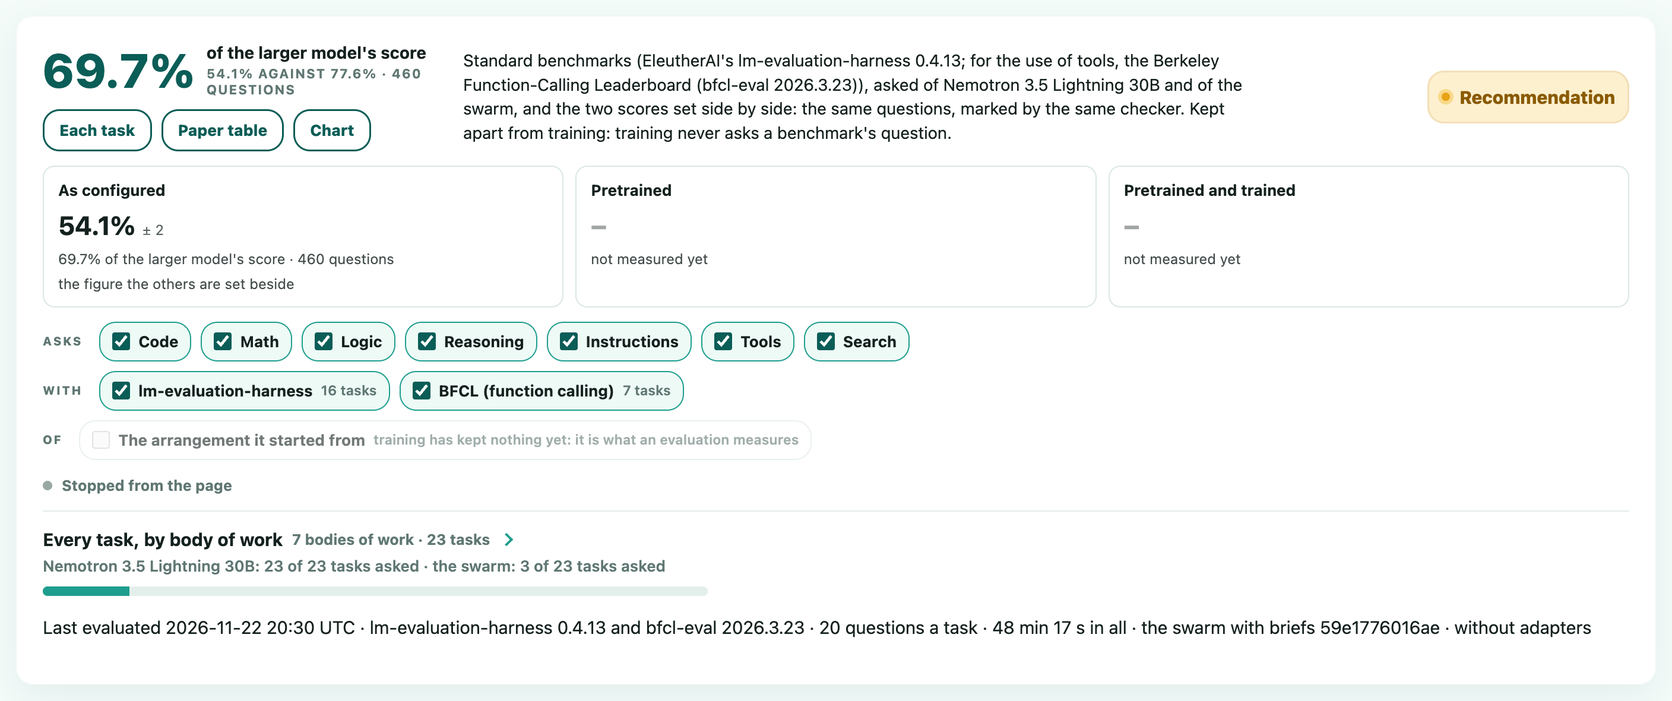
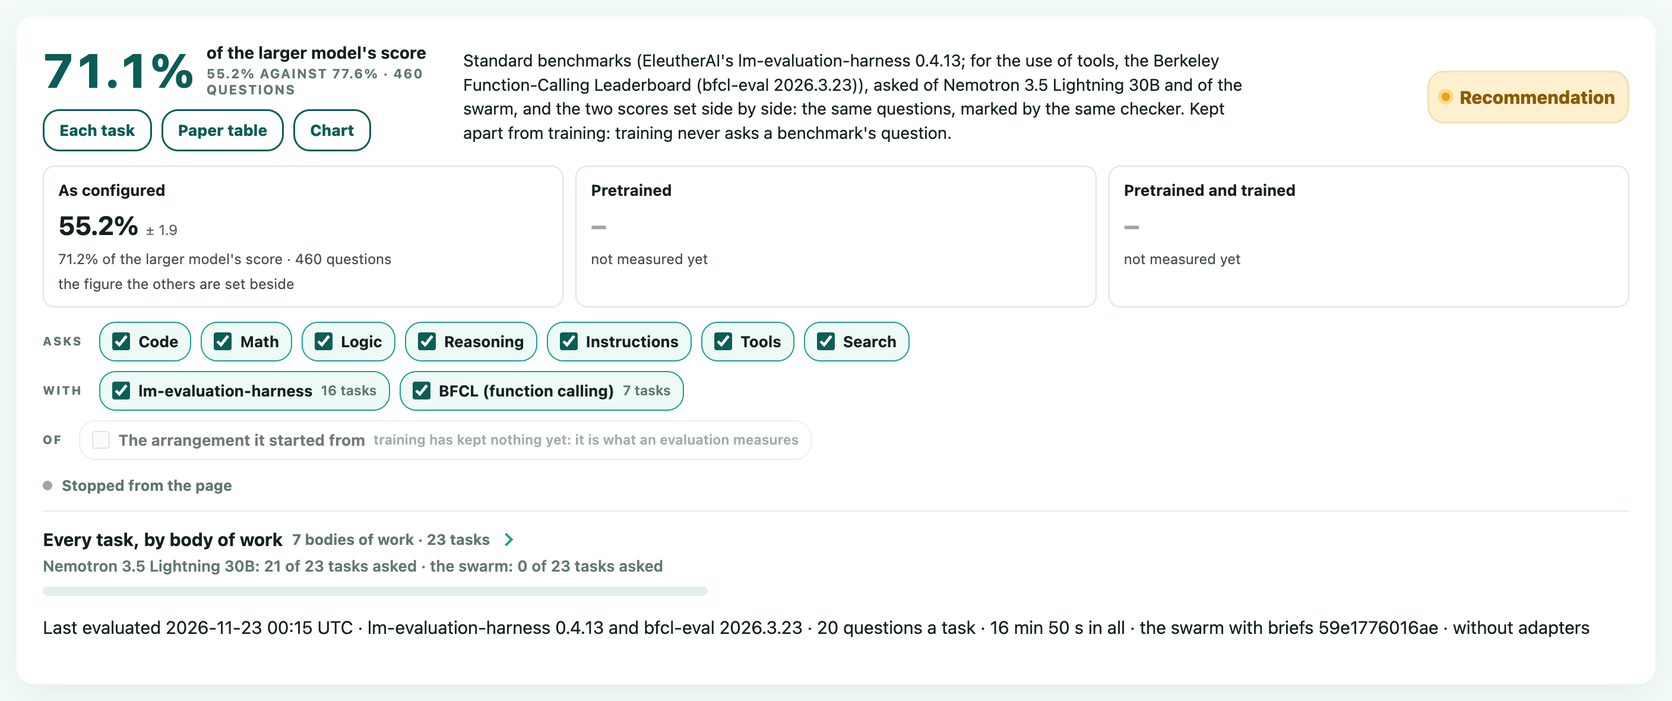
The System picture shows the whole; the one-slot figure is measured
ui/swarm_ui.py: Visualizing the System drew the search for an
arrangement and nothing else. Round those lanes it now draws the run in
order with where each step stands (R), a request inside the module with
what is code and what is models (M), the three things training keeps and
how far each can reach (K: arrangement, adapters by role, instruments,
saying which are on), and the judge apart from training (J).

Measured, 320 questions (16 tasks that are not tools or search, 20 a
task), LFM2.5 1.2B: asked plainly 15.6%; its reply laid out 19.1%; a
module of one slot 41.9%; the module of seven slots 51.2%; Nemotron
82.5%. The module's code round one call is worth about 26 points, the
arrangement about 9 more. The README's results are of the evening's
evaluation (55.2% of 460), and three pictures are retaken.

diff --git a/ui/swarm_ui.py b/ui/swarm_ui.py
@@ -186,7 +186,7 @@ table.spec th{font-size:11px;font-weight:800;letter-spacing:.1em;text-transform:
 .plannow{margin-top:10px}.plannow table.kv th{width:150px}.qsteps{margin:0;padding:0;list-style:none;counter-reset:qs;display:grid;gap:4px}
 .qsteps li{counter-increment:qs;display:flex;gap:8px;align-items:baseline;padding:6px 10px;border-radius:var(--r);background:var(--soft);font-size:13px;color:var(--fog)}
 .qsteps li::before{content:counter(qs);font-weight:800;color:var(--mist);min-width:14px}.qsteps li.on{background:#fdf0cf;box-shadow:inset 0 0 0 2px var(--sun)}.qsteps li.on::before{color:#8a5a00}
-.viz .vintro{margin:0 0 12px;font-size:12.5px;color:var(--mist);line-height:1.5}.viz .vfoot{margin:6px 0 0;font-size:12px;color:var(--mist);line-height:1.45}.viz .vlane{margin:0 0 16px}.viz .vlane:last-child{margin-bottom:0}.viz .vhead{display:flex;flex-wrap:wrap;gap:4px 10px;align-items:baseline;margin:0 0 6px}.viz .vkey{display:inline-grid;place-items:center;width:22px;height:22px;border-radius:50%;background:var(--teal);color:#fff;font-weight:800;font-size:12px}
+.viz .vintro{margin:0 0 12px;font-size:12.5px;color:var(--mist);line-height:1.5}.viz .vfoot{margin:6px 0 0;font-size:12px;color:var(--mist);line-height:1.45}.viz .vsub{margin:18px 0 10px;padding-top:12px;border-top:1px solid var(--line2);font-size:13px;color:var(--fog)}.viz .vlane{margin:0 0 16px}.viz .vlane:last-child{margin-bottom:0}.viz .vhead{display:flex;flex-wrap:wrap;gap:4px 10px;align-items:baseline;margin:0 0 6px}.viz .vkey{display:inline-grid;place-items:center;width:22px;height:22px;border-radius:50%;background:var(--teal);color:#fff;font-weight:800;font-size:12px}
 .viz .vhead small{color:var(--mist);font-size:12px}.viz .vrow{display:flex;align-items:stretch;gap:0}.viz .vbox{flex:1 1 0;min-width:0;padding:8px 10px;border-radius:var(--r);background:var(--soft);border:1px solid var(--line2)}
 .viz .vbox b{display:block;font-size:13px;line-height:1.3;color:var(--fog)}.viz .vbox small{display:block;margin-top:3px;font-size:11.5px;line-height:1.4;color:var(--mist)}
 .viz .vcode{display:inline-block;margin-right:6px;padding:0 5px;border-radius:var(--r);background:var(--panel);color:var(--teal);font-size:11px;font-weight:800}
@@ -1350,8 +1350,46 @@ def viz_block(d):
     arrow = '<span class="varr" aria-hidden="true"></span>'
     lane = lambda key, title, boxes, foot="": ('<div class="vlane"><div class="vhead"><span class="vkey">%s</span><b>%s</b></div><div class="vrow">%s</div>%s</div>'  # noqa: E731
                                                % (key, e(title), arrow.join(boxes), ('<p class="vfoot">%s</p>' % foot) if foot else ""))
-    return ('<div class="panel viz"><p class="vintro">Every part of training, coded so it can be named (B3, D2). Lanes run top to bottom; '
-            "steps run in the order of the arrows. The marked box is where the loop is now.</p>%s%s%s%s%s%s</div>" % (
+    # THE WHOLE OF IT, round the lanes of the arrangement's training (2026-11-22). The picture drew the search for an arrangement
+    # and nothing else, while most of what was measured came from what it left out: the code a request meets, the instruments,
+    # pretraining by role, and the evaluation that judges all of it. So: R the run in order, M a request inside the module, K the
+    # three things training keeps and how far each can reach; then the lanes there were (R4 in detail); then J, the judge.
+    steps_, _ = whole_steps(ARGS.root, d.get("key") or "")
+    going = bool((job_state("whole") or {}).get("running"))
+    said_ = {"done": "Done", "running": "Running now" if going else "Stopped here", "failed": "Failed", "not taken": "Not taken", "waiting": ""}
+    r_words = ["A third party&#39;s harness asks the module as it starts: no adapter, no instrument on.",
+               "An adapter for each role (draft, check, write), from the slots&#39; own right answers: K2.",
+               "The same questions again.",
+               "Each class of input as a class: lanes S to E below. Instruments are turned on here: K1, K3.",
+               "The same questions a third time: three figures side by side, J2."]
+    rbox = lambda i, x: ('<div class="vbox%s"><b><span class="vcode">R%d</span>%s</b><small>%s%s</small></div>'  # noqa: E731
+                         % (" on" if going and x["state"] == "running" else "", i + 1, e(x["name"]),
+                            ("<b>%s.</b> " % said_[x["state"]]) if said_.get(x["state"]) else "", r_words[i] if i < len(r_words) else ""))
+    on_ = lambda pl: list(data.__dict__.get("INSTRUMENT_IDS") or ["sum", "truth", "sorted", "closed"]) if (pl or {}).get("instruments") is True else list((pl or {}).get("instruments") or [])  # noqa: E731
+    br_ = d.get("briefs") or {}
+    inst_ = ([("every class", on_(br_.get("plan")))] if on_(br_.get("plan")) else []) + [(c, on_((k or {}).get("plan"))) for c, k in (br_.get("kinds") or {}).items() if on_((k or {}).get("plan"))]
+    inst_words = ("On now: %s." % "; ".join("%s (%s)" % (", ".join(v), c) for c, v in inst_)) if inst_ else "None is on yet."
+    head_ = ('<p class="vintro">How a module is made and judged, every part coded so it can be named (K3, B3). Lanes run top to bottom; steps run in the '
+             "order of the arrows. The marked box is where the run, or the loop, is now.</p>"
+             + lane("R", "The run, in order", [rbox(i, x) for i, x in enumerate(steps_)])
+             + lane("M", "A request, inside the module", [
+                 box("M1", "", "Read · code", "Its class, from the request alone: with tools, a conversation, asking for code, a plain question."),
+                 box("M2", "", "Instrument · code", "Where the question is an operation code does exactly and training turned it on for the class: done by code, no model asked."),
+                 box("M3", "", "Arrangement · models", "Otherwise the class's slots and flow: lane C."),
+                 box("M4", "", "Form · code", "The reply laid out and closed as the conversation shows; code goes out as it was settled.")],
+                 "To the program that uses it this is one chat model. M1 to M4 are its wiring, and the wiring is what training finds.")
+             + lane("K", "What training keeps, and how far each can reach", [
+                 box("K1", "", "Arrangement", "What each slot is told and how the slots are arranged, class by class. It reaches the best answer any slot drafted, and cannot make one no slot had."),
+                 box("K2", "", "Adapters, by role", "What a slot drafts, checks or writes. They reach what the small model can learn."),
+                 box("K3", "", "Instruments", "Operations done exactly. They can pass %s, but only where a question is that operation. %s" % (tname, inst_words))],
+                 "Each is kept only where held questions gained, by the one rule at S5. As a module starts, nothing is kept and no instrument is on.")
+             + '<p class="vintro vsub"><b>R4 in detail:</b> training the arrangement.</p>')
+    tail_ = lane("J", "The judge, apart from training", [
+        box("J1", "", "The harness", "A third party's benchmarks, unchanged, ask through the chat interface as they ask any model. Training never asks one of their questions."),
+        box("J2", "", "Three figures", "As configured, pretrained, pretrained and trained, on the same questions: R1, R3, R5."),
+        box("J3", "", "Beside them", "The small model asked plainly, the same with the module's layout only, and %s." % tname),
+        box("J4", "", "The verdict", "By capability: parity, short, or too few questions to say. A hundred questions a task, at least, is proof.")])
+    return ('<div class="panel viz">__VIZ_HEAD__%s%s%s%s%s%s__VIZ_TAIL__</div>' % (
                 lane("A", "Once a pass", [
                     box("A1", "", "Questions", "Of every body of work. Train questions are trained on; held questions are only checked."),
                     box("A2", "", "The standard", "The question's own where it has one; else the answers %s agrees with itself on." % tname),
@@ -1387,7 +1425,7 @@ def viz_block(d):
                 lane("E", "At the end of a pass", [
                     *([box("E1", "", "Proposed for the class", "Up to %s changes a class, those that most often brought its questions closer, scored on the class." % lpol_.get("classTries", 0))] if by_class and lpol_.get("classTries") else []),
                     box("E2" if by_class and lpol_.get("classTries") else "E1", "", "Held questions", "Does what was learned hold beyond the train questions?"),
-                    box("E3" if by_class and lpol_.get("classTries") else "E2", "", "The spec", "Every kept change, cumulative; published with its proof.")])))
+                    box("E3" if by_class and lpol_.get("classTries") else "E2", "", "The spec", "Every kept change, cumulative; published with its proof.")]))).replace("__VIZ_HEAD__", head_).replace("__VIZ_TAIL__", tail_)
 
 
 def plan_block(d):

diff --git a/ui/check.py b/ui/check.py
@@ -2248,6 +2248,14 @@ _wb = swarm_ui.whole_block(_dr)
 _ps = ("  501 /bin/bash -c source x.sh && bash training/run.sh --limit 20 --train classes\n"
        " 4242 bash training/run.sh --limit 50 --items code,math --train off\n"
        " 4300 sh training/evaluate.sh --variant base\n")
+# THE SYSTEM PICTURE DRAWS THE WHOLE: the run, a request inside the module, what training keeps, and the judge, round the lanes
+# of the arrangement's training
+_vzw = swarm_ui.viz_block(data.load(swarm_ui.ARGS.root))
+check("the System picture draws the run in order (R1 to R5), a request inside the module (M1 to M4), what training keeps with how far each reaches (K1 to K3, instruments saying which are on), the arrangement's lanes after them, and the judge last (J1 to J4)",
+      all(">%s</span>" % c in _vzw for c in ("R1", "R5", "M1", "M2", "M4", "K1", "K2", "K3", "A1", "S5", "E1", "J1", "J4"))
+      and _vzw.index(">R1</span>") < _vzw.index(">M1</span>") < _vzw.index(">K1</span>") < _vzw.index(">A1</span>") < _vzw.index(">J1</span>")
+      and "None is on yet." in _vzw and "__VIZ_" not in _vzw and "R4 in detail" in _vzw,
+      [c for c in ("R1", "M1", "K3", "J4") if ">%s</span>" % c not in _vzw])
 # THE SECOND BASELINE ON THE PAGE: beside a small model by itself, the same model with its reply laid out, as one more column
 _lo = [{"alone": {"a": {"name": "A", "value": 0.0}}, "aloneForm": {"a": {"name": "A", "value": 0.5, "unread": 1}}, "agree": {"of": 10}},
        {"harness": "bfcl", "alone": {"a": {"name": "A", "value": 1.0}}, "agree": {"of": 10}}]

diff --git a/docs/dashboard.md b/docs/dashboard.md
@@ -12,7 +12,7 @@ it is served. Every section folds, smoothly, and says in a line what it holds wh
 is kept on the device.
 
 <p align="center">
-  <img src="images/dashboard-evaluate.png" alt="Evaluate the swarm: 69.7% of the larger model&#39;s score (54.1% against 77.6% on 460 questions), with Each task, Paper table and Chart; the three evaluations side by side (as configured 54.1%, pretrained and pretrained and trained not measured yet); Asks, a ticked box for each body of work; With, a box for each harness (lm-evaluation-harness, 16 tasks; BFCL, 7 tasks); Of, the arrangement it started from; a run stopped from the page; and Every task, by body of work, folded to one line" width="860">
+  <img src="images/dashboard-evaluate.png" alt="Evaluate the swarm: 71.1% of the larger model&#39;s score (55.2% against 77.6% on 460 questions), with Each task, Paper table and Chart; the three evaluations side by side (as configured 55.2%, pretrained and pretrained and trained not measured yet); Asks, a ticked box for each body of work; With, a box for each harness (lm-evaluation-harness, 16 tasks; BFCL, 7 tasks); Of, the arrangement it started from; a run stopped from the page; and Every task, by body of work, folded to one line" width="860">
 </p>
 
 <p align="center"><em>Evaluate the swarm: the module&#39;s score as a share of the larger model&#39;s on the same questions, and the three evaluations Run sets side by side: as configured, pretrained, and pretrained and trained. The three buttons open the same results as a line for every task, as a paper sets them out, and drawn.</em></p>
@@ -30,10 +30,10 @@ is kept on the device.
 <p align="center"><em>The plan being carried out, before a pass has written one. While a pass runs it holds what the loop has done and, folded, how it is training, its policy, the arrangements it found, steering and the moves.</em></p>
 
 <p align="center">
-  <img src="images/dashboard-system.png" alt="Visualizing the System: every part of training as a coded box, in lanes: A once a pass (questions, the standard, the plan); S first in a pass, each class of input as a class (as it stands, the sweep, held questions, keep); B each question until its answer is good; C inside one try (draft, try, check and revise, decide, write, grade); D how the search improves; E at the end of a pass" width="860">
+  <img src="images/dashboard-system.png" alt="Visualizing the System: how a module is made and judged, as coded boxes in lanes: R the run in order (evaluate as configured, pretrain, evaluate pretrained, train the arrangement, evaluate pretrained and trained), each saying where it stands; M a request inside the module (read, instrument, arrangement, form), each marked code or models; K what training keeps and how far each can reach (arrangement, adapters by role, instruments); then R4 in detail, the lanes of the arrangement&#39;s training (A once a pass, S each class as a class, B each question, C inside one try, D how the search improves, E the end of a pass); and J the judge, apart from training (the harness, three figures, what stands beside them, the verdict)" width="860">
 </p>
 
-<p align="center"><em>Visualizing the System: every part with a code to name it by, the box the loop is in marked live.</em></p>
+<p align="center"><em>Visualizing the System: the run, a request inside the module, what training keeps, the training of the arrangement in detail, and the judge. Every part has a code to name it by, and the box the run or the loop is in is marked.</em></p>
 
 <p align="center">
   <img src="images/dashboard-spec.png" alt="The head of the SwOA spec of one configuration: its name; Copy as JSON, Save as a file, and Publish to specs/ greyed out; not yet measured by training against Nemotron 3.5 Lightning 30B; and the proof: its rule, and a verdict for each capability with its questions and its gap (Code short, Instructions open, Logic short, Math open, Reasoning short, Search short, Tools at parity), each a check and not yet proof" width="860">
@@ -57,7 +57,7 @@ is kept on the device.
 | Pretrain                    | A LoRA adapter for each role a slot can have (draft, check, write the reply), trained with MLX on that role's own requests on the pass's train questions and the answers it gave that were right (never a benchmark's question, never a held one). The card says how many of the three roles have one. Before 2026-11-22 it was one adapter for each small model, taught the larger model's answers; such an adapter is still served where a configuration has one. Everything it needs it fetches itself, shown as it goes: the small models' files, MLX (once, into `.work/mlx`) and each adapted model's original weights ([`training/originals.json`](../training/originals.json)), with how much has arrived. It first puts the train questions that carry a standard of their own to the swarm, once and without adapters, and keeps every slot's request with its answer; a role with fewer than eight right answers to learn from gets no adapter, and the card says so. MLX runs on Apple silicon only; elsewhere Pretrain says it is not available. While it runs, each model's training step and loss move in place, and a moving bar stands in the headline. A model keeps the adapter it has until a new one passes llama.cpp's check; a run that is stopped or fails leaves the old one in place, and says the later attempt was not kept. **Serve the swarm with its adapters** serves them from the next time the swarm is loaded; Evaluate the swarm before and after says what they bought, and each evaluation says whether adapters were on                                                                                                                                                                                                                                                                                                                                                                                                                                                                                                                                                                                                                                                                                                                                                                                                                                                                                                                                                                                                                                                                                                                                                                                                                                                                                                                                                                                                                                                                                                                                                                                                                                                                                                                                                                                                                                                                                                                                                                                                                                                                                                                                                                                                                                                                               |
 | Train                       | **% answers good** heads it: training goes question by question, so how far the pass has come is the share of its train questions the swarm answers well (right by the question's own standard, or equivalent to an answer the larger model agrees with itself on), with a line saying where the pass is and, where the questions carry a standard, how many the module has right beside the larger model. It is not parity: that is the proof's to say, capability by capability. **Train** sits beside it, as Evaluate and Pretrain have theirs: it fetches and makes ready whatever the chosen models need, then trains pass after pass until **Stop training** is pressed; **Clear training state** (pressed twice) sets what training has recorded aside in `.work/archive`, keeping the models' own answers, the found arrangements and the loop's policy (`.work/library`), so a fresh start tries first what worked. Under it, while a session runs (a moving bar in place of the share): how long it has run and since when, the decider's state, and what it is fetching; when it cannot start, why. Then, drawn as faces, the arrangement as it is asked (while a try runs, the one that try asks, marked as being tried and not kept, with the slots its change touches ringed and what else differs said; otherwise the kept one): the swarm as it stands (briefs, slots, kept changes); **Question by question**, the swarm against each question of the pass: the question in hand and which training change it is on (and its round), how that change was chosen (folded to a line: what it is built on, its place among those open, each reason, the pace, what was tried before it), or a change that made the answer good being scored on the questions of its class; a pip for every question so far (good as it stood, made good by a change, not good yet, back in hand after a swap, left out for want of a standard), the counts, the module beside the larger model family by family, and folded, what was tried on each question that needed a change; what is running. Then a roster of the models, each a face in its colour (two of one family are told apart by size: L2.6, L1.2); the larger model's chip carries its live dot and opens its card (how it is served, the configurations at parity with it). Then the flow in one row of stations (Draft › Check › Decide › Write, a loop drawn round the steps it repeats); the sandbox, which no model fills, is a marker between the stations it runs between. Each slot is a face of its model in the step it stands in, with its whole name: a ring for its record (its answers equivalent to the larger model's, of those judged), a dot and a halo for what it is doing now (working, answered, failed, idle), and an amber ring while a change is being tried on it. Choosing a face opens that slot's card below the row: what it is told, its record, what is being tried on it                                                                                                                                                                                                                                                                                                                                                                                                                                                                                                                                                                             |
 | The plan being carried out  | What the loop is doing now, from the loop itself: the question in hand and which step of the loop it is on, this pass so far (finished, tried, kept, from the found arrangements, suggested, swaps), the found arrangements, the policy and what is on trial, the larger model's suggestions, and the steps every question goes through, the current one marked. Then the plan the search draws from, in subsections that each fold to a line of what they hold (folded to begin with): **The gap, on the train questions** (how many answers to close, by choosing better or by better drafts); **What the measurement showed** (each finding, with the answers it accounts for); **Questions** (more of the kinds the last pass answered differently on); **What only you can change**; **How it is training** (the loop's limits and what the plan lists first, from the policy); **Steer it** (lean the search on an area: briefs, slots, flow, decider placement, decider loops, several at once; less, as planned, more, only; and choose any move); and **Moves, in plan order**: each with its slot and model, its technique, the paper it came from, why it was chosen, and what became of it (planned, being tried, stopped partway, kept, not kept), a planned one with **Next** and **Skip**. Steering decides what is tried, never what is kept                                                                                                                                                                                                                                                                                                                                                                                                                                                                                                                                                                                                                                                                                                                                                                                                                                                                                                                                                                                                                                                                                                                                                                                                                                                                                                                                                                                                                                                                                                                                                                                                                                                                                                                                                                                                                                                                                                                                                                                                                                                                                                                                                                                        |
-| Visualizing the System      | Every part of training drawn as boxes with a code to name it by (A1 to E3): once a pass (questions, the standard, the plan); each question until its answer is good (ask, found arrangements, search, suggestions, the check on the questions of its class, keep); inside one try (draft, try, check and revise, decide, write, grade); always (the policy, its review, its trial); at the end of a pass (changes proposed for a class, the held questions, the spec). The box the loop is in now is marked, live                                                                                                                                                                                                                                                                                                                                                                                                                                                                                                                                                                                                                                                                                                                                                                                                                                                                                                                                                                                                                                                                                                                                                                                                                                                                                                                                                                                                                                                                                                                                                                                                                                                                                                                                                                                                                                                                                                                                                                                                                                                                                                                                                                                                                                                                                                                                                                                                                                                                                                                                                                                                                                                                                                                                                                                                                                                                                                                                                                                                                                   |
+| Visualizing the System | How a module is made and judged, drawn as boxes with a code to name each by. **R**, the run in order, each of its five steps saying where it stands. **M**, a request inside the module: read, instrument, arrangement, form, each marked as code or models. **K**, the three things training keeps and how far each can reach: an arrangement reaches the best answer any slot drafted; adapters by role, what the small model can learn; instruments can pass the larger model, but only where a question is that operation, and the box says which are on. Then the training of the arrangement in detail (A1 to E3): once a pass (questions, the standard, the plan); each question until its answer is good (ask, found arrangements, search, suggestions, the check on the questions of its class, keep); inside one try (draft, try, check and revise, decide, write, grade); always (the policy, its review, its trial); at the end of a pass (changes proposed for a class, the held questions, the spec). Last, **J**, the judge apart from training: the third party's harness, the three figures, what stands beside them, and the verdict. The box the run or the loop is in now is marked                                                                                                                                                                                                                                                                                                                                                                                                                                                                                                                                                                                                                                                                                                                                                                                                                                                                                                                                                                                                                                                                                                                                                                                                                                                                                                                                                                                                                                                                                                                                                                                                                                                                                                                                                                                                                                                                                                                                                                                                                                                                                                                                                                                                                                                                                                                                                                                                                                                                                                                                                                                                                                                                                                                                                                                                                                                                                                                                                                                                                                   |
 
 ## Recommended changes
 

diff --git a/README.md b/README.md
@@ -18,7 +18,7 @@
 </p>
 
 <p align="center">
-  <img src="docs/images/dashboard.png" alt="The top of the training dashboard: the SwOA spec and Uninstall Helper buttons; Configuration, with one small model in every role (LFM2.5 1.2B), a small model of the swarm deciding, Jeffan 4B judging equivalence, against Nemotron 3.5 Lightning 30B; who takes turns with tools; whether the swarm is served with its adapters; Your own questions, a button for each body of work; and the Run card: 0 of 5 steps, stopped, the size of each evaluation, whether the arrangement is trained too, Carry on, and the five steps (evaluate the module as configured, pretrain, evaluate it pretrained, train the arrangement, evaluate it pretrained and trained)" width="860">
+  <img src="docs/images/dashboard.png" alt="The top of the training dashboard: the SwOA spec and Uninstall Helper buttons; Configuration, with one small model in every role (LFM2.5 1.2B), a small model of the swarm deciding, Jeffan 4B judging equivalence, against Nemotron 3.5 Lightning 30B; who takes turns with tools; whether the swarm is served with its adapters; Your own questions, a button for each body of work; and the Run card: 2 of 5 steps, stopped, the size of each evaluation, whether the arrangement is trained too, Carry on, and the five steps (evaluate the module as configured, pretrain, evaluate it pretrained, train the arrangement, evaluate it pretrained and trained)" width="860">
 </p>
 
 <p align="center"><em>The top of the training dashboard on 2026-11-22: a swarm of LFM2.5 1.2B in every role against Nemotron 3.5 Lightning 30B, and Run, the one button that takes it through its five steps. Below it on the page: Memory saved, Evaluate the swarm, Pretrain, Train, the plan and the system, pictured under <a href="docs/dashboard.md">The dashboard</a>.</em></p>
@@ -39,7 +39,7 @@ as one model, with the proof of what it does. The Swarm is not tied to one proje
 [The Crew](docs/training.md#the-crew-the-first-project-that-uses-it) is the first to use it.
 
 > **Status: pre-release; nothing proven yet.** The swarm configured now (2026-11-22) is LFM2.5 1.2B in both places against
-> Nemotron 3.5 Lightning 30B. As configured, before any training, it scored 54.1% on 460 questions of 23 standard tasks
+> Nemotron 3.5 Lightning 30B. As configured, before any training, it scored 55.2% on 460 questions of 23 standard tasks
 > where the larger model scored 77.6% and the small model by itself 30.0%. Twenty questions a task is a check, not a
 > proof. Pretraining, the instruments and the trained arrangement have not yet been measured on it.
 > [Results](#results) · [Status and limits](docs/status.md)
@@ -176,7 +176,7 @@ chat-model interface as they ask any model. Training makes its own questions fro
 ## The dashboard
 
 <p align="center">
-  <img src="docs/images/dashboard-evaluate.png" alt="Evaluate the swarm: 69.7% of the larger model&#39;s score (54.1% against 77.6% on 460 questions), with Each task, Paper table and Chart; the three evaluations side by side (as configured 54.1%, pretrained and pretrained and trained not measured yet); the bodies of work asked, the harnesses used, and every task folded to one line" width="860">
+  <img src="docs/images/dashboard-evaluate.png" alt="Evaluate the swarm: 71.1% of the larger model&#39;s score (55.2% against 77.6% on 460 questions), with Each task, Paper table and Chart; the three evaluations side by side (as configured 55.2%, pretrained and pretrained and trained not measured yet); the bodies of work asked, the harnesses used, and every task folded to one line" width="860">
 </p>
 
 `python3 ui/swarm_ui.py` opens at `http://127.0.0.1:8787/` and needs nothing installed. It chooses the models, runs and
@@ -191,21 +191,21 @@ instrument on) against Nemotron 3.5 Lightning 30B, 20 questions of each of 23 st
 | Body of work | The module | The small model alone | The larger model |
 | --- | --- | --- | --- |
 | Code | 52.5 | 45.0 | 90.0 |
-| Math | 70.0 | 22.5 | 82.5 |
-| Logic | 48.0 | 4.0 | 88.0 |
-| Reasoning | 40.8 | 0.8 | 76.7 |
-| Instructions | 75.0 | 90.0 | 75.0 |
+| Math | 72.5 | 22.5 | 82.5 |
+| Logic | 45.0 | 4.0 | 88.0 |
+| Reasoning | 43.3 | 0.8 | 76.7 |
+| Instructions | 85.0 | 90.0 | 75.0 |
 | Tools | 86.0 | 88.0 | 81.0 |
-| Search | 5.0 | 0.0 | 30.0 |
-| All 460 | 54.1 | 30.0 | 77.6 |
+| Search | 10.0 | 0.0 | 30.0 |
+| All 460 | 55.2 | 30.0 | 77.6 |
 
 Read it with care:
 
 - Twenty a task is a check. A verdict needs at least a hundred, and no run of that size has finished.
-- The small model's figures on Logic and Reasoning are partly layout: asked plainly, 197 of its 220 replies there went
-  unread. With the module's layout code on its reply and nothing else, 107 went unread and it scored 7.3% (from 2.3%)
-  where the module scored 44.1%. How much of the rest is the closing form and how much the arrangement is not told apart yet. The dashboard shows
-  this baseline beside the model alone, as "(laid out)".
+- Most of the module's lead over its own small model is its code, not its arrangement. On the 320 questions that are
+  not tools or search: the small model asked plainly 15.6%, with the module's reply layout only 19.1%, a module of one
+  slot (all of the module's code round one call) 41.9%, the whole module 51.2%, the larger model 82.5%. So the code is
+  worth about 26 points and the arrangement of seven slots about 9 more, before any training.
 - The same module pretrained, and pretrained and trained, has not been measured yet.
 - With every instrument on, four operation tasks read 20 of 20 where the small model alone had 0. The instruments were
   written after those tasks were read; they were then probed, with no model, on 104,520 questions by other authors and
@@ -223,7 +223,7 @@ npm test
 python3 ui/check.py
 ```
 
-236 checks of the module and the trainers and 161 of the dashboard, against stand-in servers: nothing is fetched,
+236 checks of the module and the trainers and 162 of the dashboard, against stand-in servers: nothing is fetched,
 started or installed. `npm test` deals its 115 blocks of checks out to every core (26 seconds on a 24-core Mac, 91 one
 after another); `npm run test:serial` runs them in one process, `npm run test:all` adds the dashboard's, and
 `npm run test:python` checks the Python client. How well the

diff --git a/docs/measured.md b/docs/measured.md
@@ -2,6 +2,35 @@
 
 Every measurement, dated, newest first. Each is of the swarm named in it; the lineup has changed over time.
 
+## What the code adds and what the arrangement adds, 2026-11-22 (evening)
+
+The same swarm (LFM2.5 1.2B in both places, the arrangement every swarm starts from, no adapter, no instrument on),
+asked again that evening as the first step of a run: 55.2% of 460 questions, the small model alone 30.0%, Nemotron 77.6%
+(Code 52.5, Math 72.5, Logic 45.0, Reasoning 43.3, Instructions 85.0, Tools 86.0, Search 10.0; no reply unread). Then,
+on the 320 questions of its 16 tasks that are not tools or search, four ways of asking the same small model, each 20 a
+task:
+
+| | Right, of 320 | Code | Math | Logic | Reasoning | Instructions |
+| --- | --- | --- | --- | --- | --- | --- |
+| The small model, asked plainly | 50 (15.6%) | 45.0 | 22.5 | 4.0 | 0.8 | 90.0 |
+| The same, its reply laid out by the module's code | 61 (19.1%) | 45.0 | 22.5 | 8.0 | 6.7 | 90.0 |
+| A module of one slot | 134 (41.9%) | 42.5 | 52.5 | 39.0 | 34.2 | 80.0 |
+| The module, seven slots | 164 (51.2%) | 52.5 | 72.5 | 45.0 | 43.3 | 85.0 |
+| Nemotron | 264 (82.5%) | 90.0 | 82.5 | 88.0 | 76.7 | 75.0 |
+
+- **A module of one slot** is the starting arrangement with every slot but its first drafter taken out and a flow that
+  drafts and stops (`node training/evaluate.mjs --one-slot`): one call a question, with all of the module's code round
+  it (how a request is read, the answer the slot is told to state, the form a reply closes with) and nothing of the
+  arrangement.
+- **The code is worth about 26 points; the arrangement about 9 more.** From 15.6% to 41.9% is the code round one call;
+  from 41.9% to 51.2% is six more slots, checking and choosing. Thirty questions of 320 separate the last two: more
+  than the error of either figure (about 3 points), and small beside what the code adds. The arrangement is also what
+  costs: one call a question against up to seven.
+- **Where the arrangement helps:** Math (52.5 to 72.5) and Code (42.5 to 52.5). On Logic and Reasoning it adds 6 and 9
+  points. On Instructions the model asked plainly is still ahead of both (90 against 80 and 85).
+- **What this does not say:** anything about a trained arrangement. Both are the arrangement as a swarm starts.
+  Twenty a task is a check, not a proof.
+
 ## The module as configured, on 23 tasks, 2026-11-22
 
 LFM2.5 1.2B in both places, no decision model, Jeffan 4B judging, against Nemotron 3.5 Lightning 30B: the first 20 questions

diff --git a/CHANGELOG.md b/CHANGELOG.md
@@ -15,11 +15,15 @@ The first version.
   reading. Each small model is now also asked with the module's own layout code on its one reply and nothing else
   (`aloneForm` in a task's result), so what is left between that and the module is what the arrangement adds. The
   page shows it as one more column, "(laid out)", in each view of an evaluation, once every task shown was asked so.
+- **The System picture shows the whole of how a module is made and judged** (2026-11-22). It drew the search for an
+  arrangement and nothing else. Round those lanes it now draws the run in order with where each step stands (R), a
+  request inside the module with what is code and what is models (M), the three things training keeps and how far each
+  can reach (K: arrangement, adapters by role, instruments), and the judge apart from training (J).
 - **An evaluation of a module of one slot** (2026-11-22). `node training/evaluate.mjs --one-slot` measures the
   arrangement a swarm starts from with every slot but its first drafter taken out and a flow that drafts and stops: all
   of the module's code round one model, and none of the arrangement. Set beside the model asked plainly and the whole
-  module, it says how much of the module's lead is its code and how much its arrangement. A result names it
-  (`"arrangement": "one slot"`).
+  module, it says how much of the module's lead is its code and how much its arrangement. A result names it (`"arrangement": "one slot"`). Measured on 320 questions: the model asked plainly 15.6%, a module of one
+  slot 41.9%, the whole module 51.2%.
 - **The page counts only a run in its own folder as its run** (2026-11-22). A whole run was found by its process
   alone, so a page served from another copy of the repository took a run elsewhere on the machine for its own and
   would not start anything; the page's own checks failed while a real run was going.

diff --git a/docs/status.md b/docs/status.md
@@ -18,7 +18,7 @@ What has been run:
   instrument is kept on ones its trying never saw.
 
 - **The module as configured, on every task (2026-11-22).** LFM2.5 1.2B in both places against Nemotron 3.5 Lightning 30B,
-  20 questions of each of 23 tasks: 54.1% against 77.6%, the small model by itself 30.0%
+  20 questions of each of 23 tasks: 55.2% against 77.6% that evening (54.1% in the afternoon), the small model by itself 30.0%
   ([Measured, not claimed](measured.md#the-module-as-configured-on-23-tasks-2026-11-22)). The same module pretrained, and
   pretrained and trained, on the same questions: not measured yet; that run was paused in its first step.
 - **Checks:** all of them, against stand-ins.
